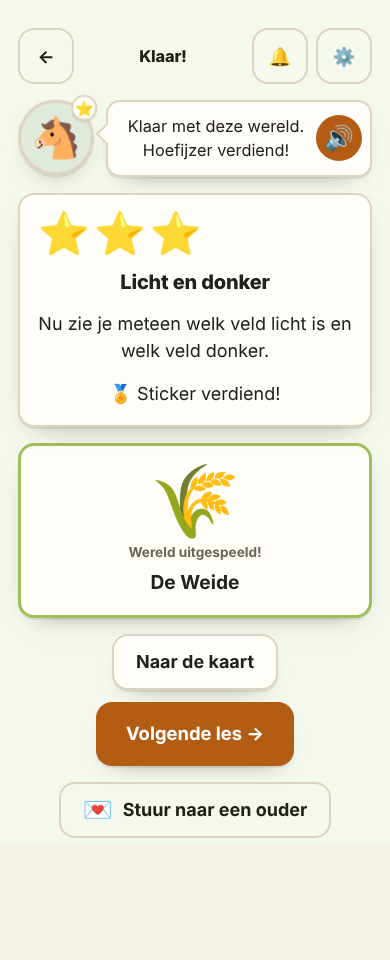
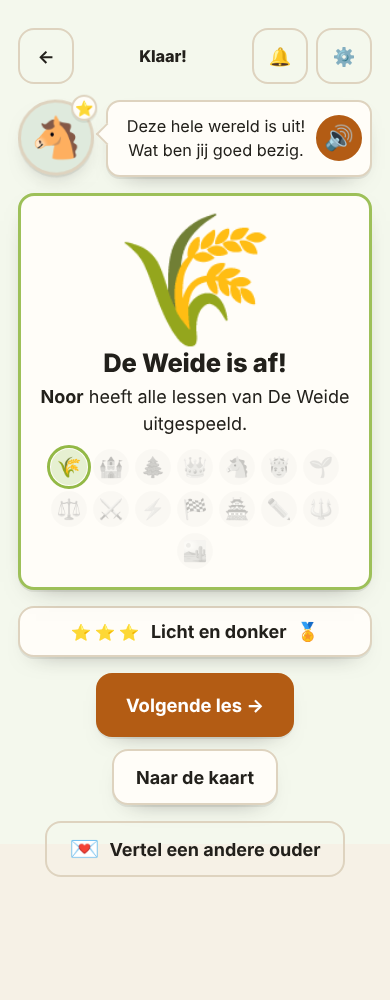
Wereld af als held, diploma-voorproef met wereldwapens, telling Gedeeld
Na 28e review: Pip belooft geen hoefijzer meer na De Weide; wereld bovenaan
met groot wapen en wapenrij; hoofdknop eerst; label 'Vertel een andere ouder';
anonieme telling Gedeeld (hoe/waar) in beide vaste lijsten; doorloop test ook
de kopieer-terugval zonder naam.

diff --git a/src/lesson/LessonPlayer.tsx b/src/lesson/LessonPlayer.tsx
@@ -13,7 +13,7 @@ import { gebruikTip } from '@/ui/gebruikTip'
 import { sfx } from '@/audio/sfx'
 import { kies, speak, stopSpeaking, wachtTotUitgesproken } from '@/audio/voice'
 import { HINT_GEGEVEN, OPNIEUW_PROBEREN, pipZinnen } from '@/content/voice'
-import { volgendeLes, wereldMet, type Lesson, type World } from '@/content'
+import { WERELDEN, volgendeLes, wereldMet, type Lesson, type World } from '@/content'
 import { vertelTekst, vertelWijzers } from '@/content/types'
 import { type Square } from '@/engine/board'
 import {
@@ -518,31 +518,59 @@ export function LessonPlayer({
         <Kop titel="Klaar!" terug="/kaart/" />
         <div className="stack center">
           <Pip zegt={zin} stemming="trots" />
+          {/* Een hele wereld uit is groter dan een les: vier lessen werk. Eerst stond
+              het als regel tekst in de lesuitslag, daarna als tweede kaart eronder
+              (28e review: "het feest staat op de tweede plek"). Nu is de wereld de held:
+              groot wapen bovenaan, de naam, en alle wapens op een rij zodat je ziet
+              waar je staat. De lesuitslag schuift klein eronder. */}
+          {wereldKlaar && (
+            <div className={`card stack center ${styles.wereldAf}`} style={{ position: 'relative', overflow: 'hidden' }}>
+              <Confetti />
+              <span className={styles.wereldAfWapen} aria-hidden="true">
+                {wereld.emoji}
+              </span>
+              <h2 className={styles.wereldAfKop}>{wereld.naam} is af!</h2>
+              <p style={{ margin: 0 }}>
+                {profiel ? <><strong>{profiel.naam}</strong> heeft</> : 'Jij hebt'} alle lessen van {wereld.naam}{' '}
+                uitgespeeld.
+              </p>
+              <div className={styles.wapenRij} aria-label="Jouw wereldwapens">
+                {WERELDEN.map((w) => {
+                  const af = w.id === wereld.id || wereldIsAf(w.id, voortgang)
+                  return (
+                    <span
+                      key={w.id}
+                      className={`${styles.wapenKlein} ${af ? styles.wapenAf : ''} ${w.id === wereld.id ? styles.wapenNu : ''}`}
+                      title={af ? w.naam : 'nog niet'}
+                      aria-label={af ? `${w.naam}, af` : 'nog niet af'}
+                    >
+                      {w.emoji}
+                    </span>
+                  )
+                })}
+              </div>
+            </div>
+          )}
           {/* Het moment waar een kind een hele les voor heeft gewerkt. Dat mag je niet
               stilzwijgend voorbij laten gaan: de sterren vliegen één voor één binnen,
               er valt confetti en Pip springt. Wie beweging heeft uitgezet krijgt
               gewoon het eindbeeld. */}
-          <div className="card stack center" style={{ position: 'relative', overflow: 'hidden' }}>
-            <Confetti />
-            <Sterren aantal={sterren} groot vier />
-            <h2>{les.titel}</h2>
-            {/* Niet les.doel: dat is de zin voor de ouder ("Je kind ziet dat...") en
-                die stond hier letterlijk, over het kind gepraat tegen het kind. */}
-            <p>{les.geleerd}</p>
-            {sterren >= 3 && <p>🏅 Sticker verdiend!</p>}
-          </div>
-
-          {/* Een hele wereld uit is groter dan een les: vier lessen werk. Dat kreeg één
-              regel tekst in dezelfde kaart. Nu een eigen wapen dat binnenvalt, en voor
-              de ouder een rustige knop om het door te sturen, onder de knoppen van
-              het kind zodat "Volgende les" niet onder de vouw zakt. */}
-          {wereldKlaar && (
-            <div className={`card stack center ${styles.wereldAf}`}>
-              <span className={styles.wereldAfWapen} aria-hidden="true">
-                {wereld.emoji}
-              </span>
-              <p className={styles.poortKop}>Wereld uitgespeeld!</p>
-              <strong className={styles.poortNaam}>{wereld.naam}</strong>
+          {wereldKlaar ? (
+            // Klein, één regel: anders zakte "Volgende les" op een telefoon onder de vouw.
+            <div className={`card ${styles.lesKort}`}>
+              <Sterren aantal={sterren} vier />
+              <strong>{les.titel}</strong>
+              {sterren >= 3 && <span aria-label="Sticker verdiend">🏅</span>}
+            </div>
+          ) : (
+            <div className="card stack center" style={{ position: 'relative', overflow: 'hidden' }}>
+              <Confetti />
+              <Sterren aantal={sterren} groot vier />
+              <h2>{les.titel}</h2>
+              {/* Niet les.doel: dat is de zin voor de ouder ("Je kind ziet dat...") en
+                  die stond hier letterlijk, over het kind gepraat tegen het kind. */}
+              <p>{les.geleerd}</p>
+              {sterren >= 3 && <p>🏅 Sticker verdiend!</p>}
             </div>
           )}
 
@@ -563,17 +591,18 @@ export function LessonPlayer({
               </div>
             </div>
           )}
+          {/* De hoofdknop eerst: op een telefoon stond "Naar de kaart" erboven (28e review). */}
           <div className="row" style={{ justifyContent: 'center' }}>
-            <Link href="/kaart/" className="btn">
-              Naar de kaart
-            </Link>
             {volgende && (
               <Link href={`/les/${volgende.id}/`} className="btn btn--primary btn--big">
                 Volgende les →
               </Link>
             )}
+            <Link href="/kaart/" className="btn">
+              Naar de kaart
+            </Link>
           </div>
-          {wereldKlaar && <DeelKnop />}
+          {wereldKlaar && <DeelKnop waar="wereld" />}
           {/* Voor de ouder, en ónder de knoppen: als grote kaart erboven duwde hij
               "Volgende les" op een telefoon onder de vouw, en een kind dat niet leest
               tikte op het grootste vlak en stond in een formulier (negentiende review, L1).

diff --git a/src/diploma/DiplomaScherm.tsx b/src/diploma/DiplomaScherm.tsx
@@ -79,15 +79,15 @@ export function DiplomaScherm({ soort }: { soort: DiplomaSoort }) {
               🔒
             </p>
             <h2>Nog even doorzetten</h2>
-            <div
-              className={styles.balk}
-              role="progressbar"
-              aria-valuemin={0}
-              aria-valuemax={werelden.length}
-              aria-valuenow={af}
-              aria-label={`${af} van ${werelden.length} werelden uitgespeeld`}
-            >
-              <span style={{ width: `${(af / werelden.length) * 100}%` }} />
+            {/* Geen gladde balk: bij 0 van 7 was dat een lege grijze streep (28e review).
+                De werelden zelf, gehaalde in kleur, de rest vaag: dat leest ook een
+                kind dat nog niet leest. */}
+            <div className={styles.stappen} aria-label={`${af} van ${werelden.length} werelden uitgespeeld`}>
+              {werelden.map((w) => (
+                <span key={w.id} className={`${styles.stap} ${wereldIsAf(w.id, voortgang) ? styles.stapAf : ''}`} aria-hidden="true">
+                  {w.emoji}
+                </span>
+              ))}
             </div>
             <p className="muted" style={{ margin: 0 }}>
               {/* Een wereldnummer zegt een kind niets; de naam en het aantal dat nog
@@ -135,7 +135,7 @@ export function DiplomaScherm({ soort }: { soort: DiplomaSoort }) {
         <p className={styles.handtekening}>🐴 Pip het schaakpaardje</p>
       </article>
 
-      <div className={`row ${styles.verbergBijPrinten}`} style={{ justifyContent: 'center', marginTop: 18 }}>
+      <div className={`${styles.knoppen} ${styles.verbergBijPrinten}`}>
         <button type="button" className="btn btn--primary btn--big" onClick={() => window.print()}>
           🖨 Printen
         </button>
@@ -144,7 +144,7 @@ export function DiplomaScherm({ soort }: { soort: DiplomaSoort }) {
         </Link>
       </div>
       <div className={styles.verbergBijPrinten} style={{ marginTop: 18 }}>
-        <DeelKnop />
+        <DeelKnop waar="diploma" />
       </div>
     </main>
   )

diff --git a/src/ui/DeelKnop.tsx b/src/ui/DeelKnop.tsx
@@ -1,6 +1,7 @@
 'use client'
 
 import { useState } from 'react'
+import { tel } from '@/progress/tellen'
 import { SITE } from '@/seo'
 
 /**
@@ -19,7 +20,14 @@ export const DEELTEKST = 'Mijn kind leert schaken met Pip het schaakpaardje. Gra
 
 type Uitkomst = 'niets' | 'gedeeld' | 'gekopieerd' | 'zelf'
 
-export function DeelKnop({ label = 'Stuur naar een ouder' }: { label?: string }) {
+export function DeelKnop({
+  waar,
+  label = 'Vertel een andere ouder',
+}: {
+  /** Alleen voor de anonieme telling: wélk trots moment, nooit wélk kind. */
+  waar: 'wereld' | 'diploma'
+  label?: string
+}) {
   const [uitkomst, setUitkomst] = useState<Uitkomst>('niets')
   const url = `${SITE}/`
 
@@ -28,6 +36,7 @@ export function DeelKnop({ label = 'Stuur naar een ouder' }: { label?: string })
       try {
         await navigator.share({ title: 'Schaakmaatje', text: DEELTEKST, url })
         setUitkomst('gedeeld')
+        tel('Gedeeld', { hoe: 'gedeeld', waar })
         return
       } catch (fout) {
         // Weggetikt door de ouder: dat is geen fout, en dan ook geen terugval.
@@ -37,7 +46,10 @@ export function DeelKnop({ label = 'Stuur naar een ouder' }: { label?: string })
     try {
       await navigator.clipboard.writeText(`${DEELTEKST} ${url}`)
       setUitkomst('gekopieerd')
+      tel('Gedeeld', { hoe: 'gekopieerd', waar })
     } catch {
+      // Ook als Safari na een mislukte share de activatie kwijt is, of er geen
+      // klembord is (http, oude webview): dan staat de link er gewoon zichtbaar.
       setUitkomst('zelf')
     }
   }

diff --git a/src/diploma/Diploma.module.css b/src/diploma/Diploma.module.css
@@ -18,7 +18,7 @@
 .klein {
   font-size: 0.78rem; letter-spacing: 0.2em; text-transform: uppercase; color: var(--muted);
 }
-.medaille { font-size: 58px; line-height: 1; margin: 4px 0; }
+.medaille { font-size: 88px; line-height: 1; margin: 4px 0; }
 .titel { font-size: clamp(1.5rem, 5vw, 2.1rem); }
 .uitgereikt { color: var(--muted); }
 .naam {
@@ -71,8 +71,13 @@
 .voorproef > * { grid-area: 1 / 1; }
 .wazig { filter: blur(1.5px) grayscale(0.3); opacity: 0.7; pointer-events: none; user-select: none; }
 .slot { align-self: end; margin-bottom: -160px; justify-self: center; max-width: 420px; width: calc(100% - 24px); z-index: 1; }
-.balk {
-  width: 100%; height: 14px; border-radius: 999px; overflow: hidden;
-  background: color-mix(in srgb, var(--ink) 10%, transparent);
+.stappen { display: flex; flex-wrap: wrap; justify-content: center; gap: 6px; }
+.stap {
+  display: grid; place-items: center; width: 40px; height: 40px; border-radius: 50%;
+  font-size: 22px; background: color-mix(in srgb, var(--ink) 7%, transparent);
+  filter: grayscale(1); opacity: 0.4;
 }
-.balk > span { display: block; height: 100%; background: var(--grass); border-radius: inherit; }
+.stapAf { filter: none; opacity: 1; background: color-mix(in srgb, var(--grass) 22%, transparent); }
+/* Even brede knoppen onder de oorkonde, niet drie verschillende maten. */
+.knoppen { display: grid; gap: 10px; max-width: 360px; margin: 18px auto 0; }
+.knoppen > * { width: 100%; justify-content: center; }

diff --git a/src/lesson/LessonPlayer.module.css b/src/lesson/LessonPlayer.module.css
@@ -250,7 +250,7 @@
 /* Wereld uit: het wapen van de wereld valt groot binnen. */
 .wereldAf { border: 3px solid hsl(var(--toon) 45% 55%); gap: 6px; }
 .wereldAfWapen {
-  font-size: 72px; line-height: 1;
+  font-size: 128px; line-height: 1;
   animation: wapenIn 700ms cubic-bezier(0.2, 1.4, 0.4, 1) both;
 }
 @keyframes wapenIn {
@@ -258,3 +258,17 @@
   to { transform: none; opacity: 1; }
 }
 @media (prefers-reduced-motion: reduce) { .wereldAfWapen { animation: none; } }
+.wereldAfKop { font-size: clamp(1.6rem, 6vw, 2.2rem); margin: 0; }
+.wapenRij { display: flex; flex-wrap: wrap; justify-content: center; gap: 6px; margin-top: 6px; }
+.wapenKlein {
+  display: grid; place-items: center; width: 36px; height: 36px; border-radius: 50%;
+  font-size: 20px; background: color-mix(in srgb, var(--ink) 6%, transparent);
+  filter: grayscale(1); opacity: 0.35;
+}
+.wapenAf { filter: none; opacity: 1; background: hsl(var(--toon) 50% 88%); }
+.wapenNu { outline: 3px solid hsl(var(--toon) 45% 50%); outline-offset: 1px; }
+@media (prefers-color-scheme: dark) {
+  :root:not([data-theme='light']) .wapenAf { background: hsl(var(--toon) 25% 25%); }
+}
+:root[data-theme='dark'] .wapenAf { background: hsl(var(--toon) 25% 25%); }
+.lesKort { display: flex; align-items: center; justify-content: center; gap: 10px; flex-wrap: wrap; padding: 10px 14px; }

diff --git a/src/content/voice.ts b/src/content/voice.ts
@@ -56,7 +56,9 @@ export const STER3 = ['Drie sterren! Je krijgt er een sticker bij.'] as const
 
 export const WERELD_AF = [
   'Deze hele wereld is uit! Wat ben jij goed bezig.',
-  'Klaar met deze wereld. Hoefijzer verdiend!',
+  // Hier stond ook "Klaar met deze wereld. Hoefijzer verdiend!", maar een hoefijzer
+  // krijg je pas na wereld 6, 12 en 14. Na De Weide zocht een kind er een dat er niet
+  // was (28e review). Een nieuwe zin vraagt een nieuwe opname; tot dan deze ene.
 ] as const
 
 export const PARTIJ_START = [
@@ -266,7 +268,7 @@ export const STER3_OUDER = ['Drie sterren, en een sticker erbij.'] as const
 
 export const WERELD_AF_OUDER = [
   'Deze wereld is uit. Goed bezig.',
-  'Wereld uitgespeeld. Hoefijzer verdiend.',
+  // Zie WERELD_AF: het hoefijzer komt pas na wereld 6, 12 en 14.
 ] as const
 
 export const WELKOM_TERUG_OUDER = [

diff --git a/tests/tellen.test.ts b/tests/tellen.test.ts
@@ -126,6 +126,8 @@ describe('wat er geteld wordt, ligt vast', () => {
     'Profiel gemaakt': ['na'],
     'Eerste opgave': ['les'],
     'Opgave lastig': ['les', 'opgave', 'hulp'],
+    // Alleen óf de knop iets doet: gedeeld/gekopieerd, op wereld af of diploma.
+    Gedeeld: ['hoe', 'waar'],
   }
   const bestanden = (map: string): string[] =>
     readdirSync(map).flatMap((n) => {

diff --git a/public/teller/opslag.php b/public/teller/opslag.php
@@ -29,6 +29,7 @@ const TELLINGEN = [
     'Profiel gemaakt' => ['na'],
     'Eerste opgave' => ['les'],
     'Opgave lastig' => ['les', 'opgave', 'hulp'],
+    'Gedeeld' => ['hoe', 'waar'],
 ];
 
 /**

diff --git a/docs/reviews/2026-11-03-achtentwintigste-review.md b/docs/reviews/2026-11-03-achtentwintigste-review.md
@@ -1,0 +1,48 @@
+# Achtentwintigste review: het trotse moment (2026-11-03)
+
+Fase: "volgende niveau", ronde 3. Wat er nieuw is: de deelknop voor ouders, de voorproef op het vergrendelde diploma en "wereld af" als het grote moment.
+Branch `volgende-niveau`. De reviewers zijn rechtstreeks gestart, want de coördinator kan in deze sessie geen subagents starten.
+
+**Oordeel na verwerking: GO voor deze fase.** Er is niets blokkerend, en alle grote punten zijn opgelost. `check` is groen, en de doorloop ook, met 3 nieuwe regels over delen.
+
+| reviewer | blokkerend | groot/belangrijk | middel | klein |
+|---|---|---|---|---|
+| schaakmeester | 0 | 0 | 0 | 2 |
+| layout | 0 | 3 | 3 | 4 |
+| conversie | 0 | 1 | 0 | 4 |
+| codebase | 0 | 1 | 0 | 4 |
+
+## Groot / belangrijk
+- **L1. Pip zei na De Weide "Hoefijzer verdiend!".** Een hoefijzer krijg je pas na wereld 6, 12 en 14. *Opgelost:* die zin is weg uit `WERELD_AF` en `WERELD_AF_OUDER`. Er blijft één kloppende zin over met de bestaande opname. Een nieuwe zin vraagt een nieuwe opname (ElevenLabs), en daarvoor is geen sleutel in deze sessie.
+- **L2. Het feest voor "wereld af" stond op de tweede plek.** *Opgelost:* de wereld staat nu bovenaan, met een wapen van 128 px, confetti en de kop "De Weide is af!". Daaronder staat "Noor heeft alle lessen… uitgespeeld" (de naam alleen lokaal in beeld) en een rij met alle wereldwapens, de gehaalde in kleur. De lesuitslag is één compacte regel.
+- **L3. Label "Stuur naar een ouder" (wie het toestel vasthoudt ís de ouder).** *Opgelost:* het label is nu "Vertel een andere ouder". Een plaatje meesturen is *niet gedaan*: de opdracht zegt "alleen een link en een vaste tekst". Voor een vast plaatje zonder naam moet Kaj eerst kiezen; het staat als vraag op het scorebord.
+- **C1. Delen wordt niet geteld.** *Opgelost:* er is een losse telling `Gedeeld` met `hoe` (gedeeld/gekopieerd) en `waar` (wereld/diploma). Die staat in beide vaste lijsten (`tests/tellen.test.ts`, `public/teller/opslag.php`). Er gaat geen kind, profiel of wereld mee.
+- **CB1. De doorloop testte de kopieerroute niet.** *Opgelost:* er is een tweede context zonder `navigator.share` en met een nep-klembord. Die controleert de link, dat de naam ontbreekt en de statustekst.
+
+## Middel
+- **L4/C3. Lege voortgangsbalk op het vergrendelde diploma.** *Opgelost:* de balk is vervangen door de wereldwapens, de gehaalde in kleur.
+- **L5. Het slotpaneel dekte de oorkonde af.** *Opgelost:* het paneel is smaller en staat lager, zodat de medaille en de titel zichtbaar zijn. De naam blijft half bedekt, en dat is bewust: het slot moet duidelijk blijven (schaakmeester: een jong kind mag niet denken "ik heb hem al").
+- **L6. "Naar de kaart" stond boven de hoofdknop.** *Opgelost:* "Volgende les" komt nu eerst.
+
+## Klein
+- **L7. Ongelijke knoppen bij het diploma.** *Opgelost* met een raster van even brede knoppen.
+- **L8. Te kleine medaille.** *Opgelost:* van 58 naar 88 px.
+- **L9. Lege statusregel onder de deelknop.** *Niet opgelost:* die ruimte is nodig voor de melding, zodat de pagina niet verspringt.
+- **L10. Grijze kop "Wereld uitgespeeld!" in het donker.** *Vervallen:* de kop is nu de grote "… is af!".
+- **C2. De link gaat naar `/` en niet naar de eerste les.** *Niet opgelost, bewust:* de startpagina legt eerst uit wat dit is, en daarna volgt de eerste les met 1 tik.
+- **C4. "Bedankt" verschijnt ook als de ouder in het deelvenster afbreekt.** *Niet opgelost:* het toestel meldt dan toch succes. Het is onschuldig.
+- **CB2. Safari en klembord na een mislukte share.** *Opgelost* met commentaar. De terugval toont de link zichtbaar.
+- **CB3/SM1. "Mijn kind…" past niet als het kind zelf tikt.** *Niet opgelost:* de knop is voor de ouder en staat onder de knoppen van het kind. Een kind dat tikt opent alleen het deelvenster van het toestel.
+- **CB4. NaN bij een diploma zonder werelden.** *Vervallen:* de balk is weg.
+- **CB5. Les-id's uit `out/les`.** *Niet opgelost:* als dat misgaat, faalt de regel zichtbaar.
+- **SM2. "Alle stukken en hun zetten" is iets ruim.** *Niet opgelost:* het is geen onwaarheid, en de content valt buiten deze fase.
+
+## Wow ("zou een ouder hier een screenshot van doorsturen?")
+| scherm | layout | conversie | vóór (27e) |
+|---|---|---|---|
+| Wereld af | 5 (vóór de verbouwing na deze review) | 7 | – |
+| Diploma behaald | 7,5 | 8 | 3 (alleen het slot gezien) |
+| Diploma vergrendeld | 6 | – | 3 |
+
+De cijfers zijn gegeven vóór de verwerking. Wereld af is daarna flink veranderd (zie L2), dus de volgende ronde meet opnieuw.
+Naar een 9: Pip die het wapen of diploma uitreikt als illustratie, een staande opmaak die als plaatje werkt, en een stempel- of glans-animatie bij het wapen.

diff --git a/docs/volgende-niveau.md b/docs/volgende-niveau.md
@@ -3,7 +3,7 @@
 Geheugen van de `/loop`. Elke ronde: lees dit, pak het hoogste rode punt, bouw, bewijs, review, werk bij.
 
 ## Open vragen voor Kaj
-- (geen open vragen)
+- Delen stuurt nu alleen link + vaste zin. Mag er ook een **vast plaatje zonder naam** mee (bijv. het wereldwapen met Pip), zodat de ontvanger ziet wát er gevierd wordt? Tot je antwoord: alleen link + zin. (28e review, L3)
 
 ## Besluiten van Kaj
 - 3 nov 2026: `maximum-scale=1` blijft, bewust tegen per ongeluk zoomen door kleine kinderen. Lat voor Lighthouse Toegankelijkheid daarom: 100 op alles behalve de audit `meta-viewport`.
@@ -25,11 +25,11 @@ Schermafbeeldingen: `docs/volgende-niveau/voor-*.png`.
 | LCP < 2,5 s / CLS < 0,05 | 2,1 s / 0 | 🟢 |
 | Eerste les ≤ 2 tikken, ≤ 15 s | 1 tik, 1,4 s | 🟢 |
 | Tik-reactie < 100 ms | nog niet gemeten | ⚪ |
-| Beloningsmoment per wereld | diploma-scherm bestaat; nog niet beoordeeld | ⚪ |
+| Beloningsmoment per wereld | ronde 3: eigen held-kaart (wapen 128 px, confetti, wapenrij), diploma-voorproef | 🟢 (wow nog te meten) |
 | `prefers-reduced-motion` | in 10 stijlbestanden; niet overal nagelopen | ⚪ |
-| Wow-toets ≥ 9 (4 schermen, 2 reviewers) | ronde 2: start 6/7, les 6,5/6, diploma 3/–, kaart 5/6,5 (zie 27e review) | 🔴 |
+| Wow-toets ≥ 9 (4 schermen, 2 reviewers) | ronde 3: wereld af 5/7, diploma 7,5/8 (vóór verbouwing). ronde 2: start 6/7, les 6,5/6, diploma 3/–, kaart 5/6,5 (zie 27e review) | 🔴 |
 | OG-afbeelding per pagina | één algemene `og.png` voor alle pagina's | 🔴 |
-| Deelknop op trotse momenten | alleen in live spelen; niet bij wereld af / diploma | 🔴 |
+| Deelknop op trotse momenten | ronde 3: op wereld af en diploma, alleen link + vaste zin, anonieme telling `Gedeeld`; doorloop bewaakt share én kopieer zonder naam | 🟢 |
 | Installeerbaar | manifest + service worker aanwezig | 🟢 |
 | Wereld 0–2 offline | alleen `/`, manifest, icoon voorgeladen; rest pas na bezoek | 🔴 |
 | `npm run check` + doorloop groen | ronde 2: groen (doorloop 23 regels) | 🟢 |
@@ -37,7 +37,8 @@ Schermafbeeldingen: `docs/volgende-niveau/voor-*.png`.
 
 ## Rangschikking (wow per uur werk), bijgewerkt na ronde 2
 
-1. **Diploma / wereld af als screenshot-magneet**: deelbaar diploma (naam blijft lokaal), confetti met reduced-motion, deelknop (Web Share + kopieer link, alleen de link), eigen OG-plaatje. Laagste wow-cijfer (3), en precies het moment dat ouders doorsturen.
+1. ~~Diploma / wereld af~~ (ronde 3 gedaan). Volgende: **Eerste les levendiger** — zie 2.
+0. *(oud)* **Diploma / wereld af als screenshot-magneet**: deelbaar diploma (naam blijft lokaal), confetti met reduced-motion, deelknop (Web Share + kopieer link, alleen de link), eigen OG-plaatje. Laagste wow-cijfer (3), en precies het moment dat ouders doorsturen.
 2. **Eerste les levendiger**: Pip groot in de rechterkolom met stemmingen, het bord reageert bij zin 1, een kleine beloning per goed veld.
 3. **Wereldkaart als landschap** in plaats van stroken; dichte werelden in kleur.
 4. **Startpagina-held**: bewegende Pip + bord, belofte groot.
@@ -48,3 +49,4 @@ Schermafbeeldingen: `docs/volgende-niveau/voor-*.png`.
 ## Logboek
 - Ronde 1: nulmeting. Niets aan de app veranderd.
 - Ronde 2: lesscherm liggend (bord naast Pip, volle hoogte op telefoon dwars). 27e review verwerkt. Wow-cijfers gemeten.
+- Ronde 3: trots moment — deelknop (link + vaste zin, telling), diploma-voorproef met wereldwapens, wereld af als held. 28e review verwerkt. Pip-zin 'Hoefijzer verdiend' weg (klopte niet na wereld 1).
